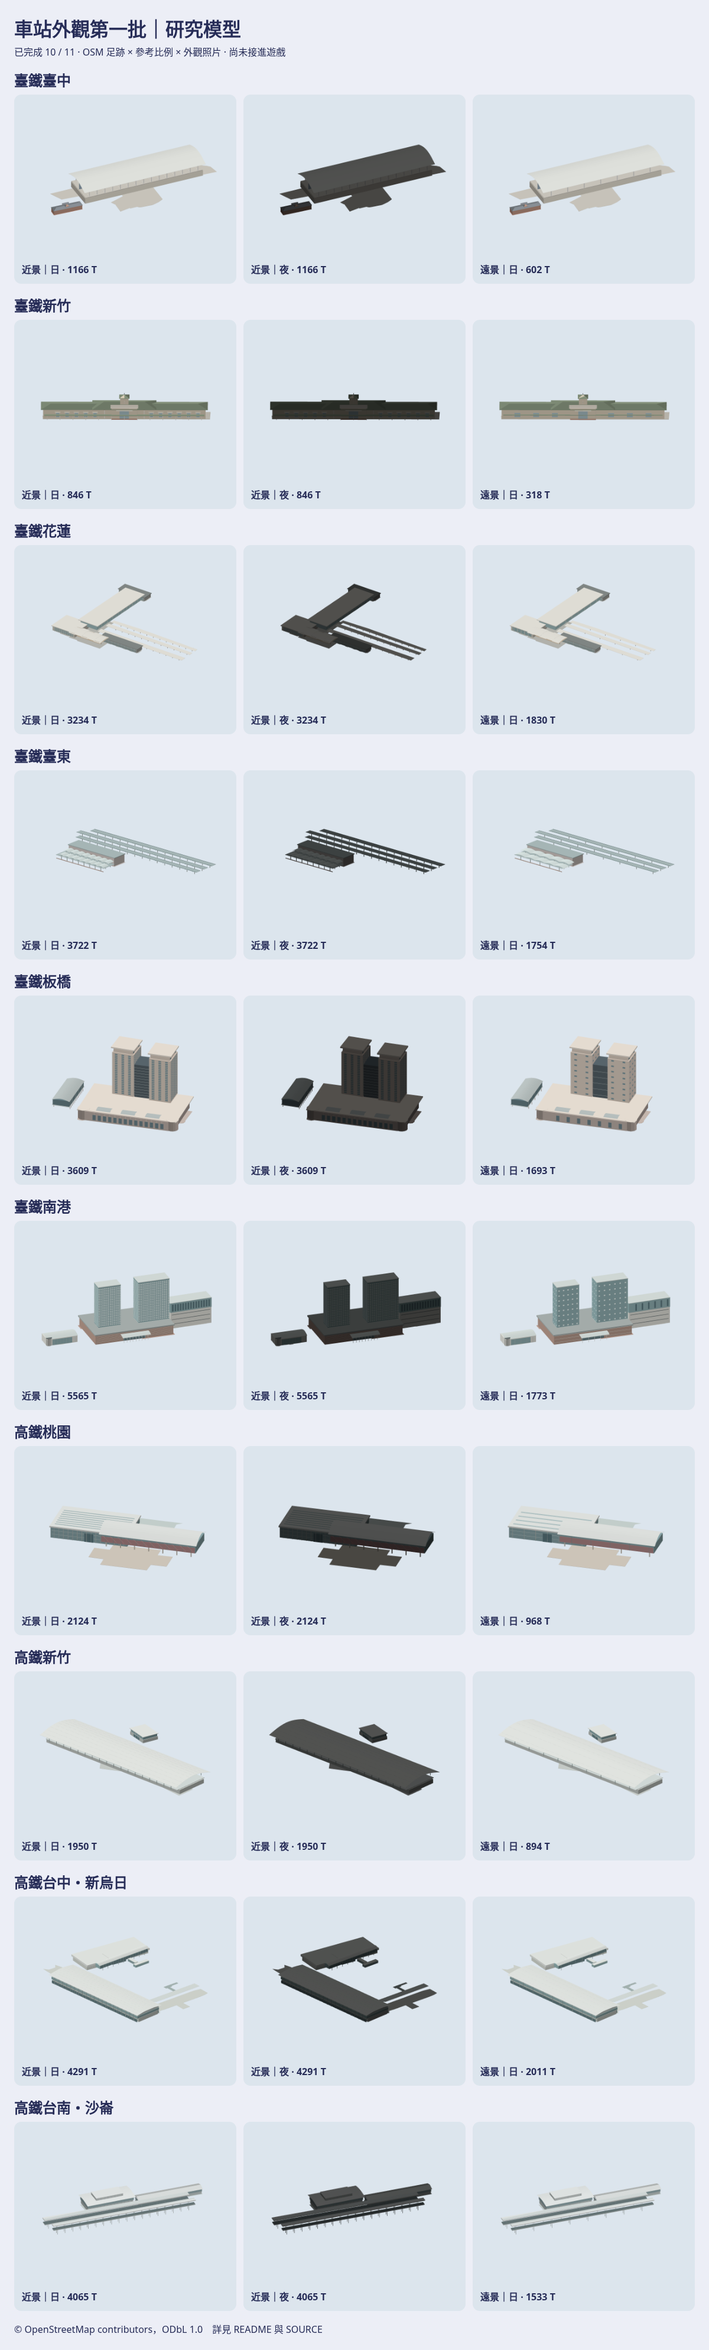
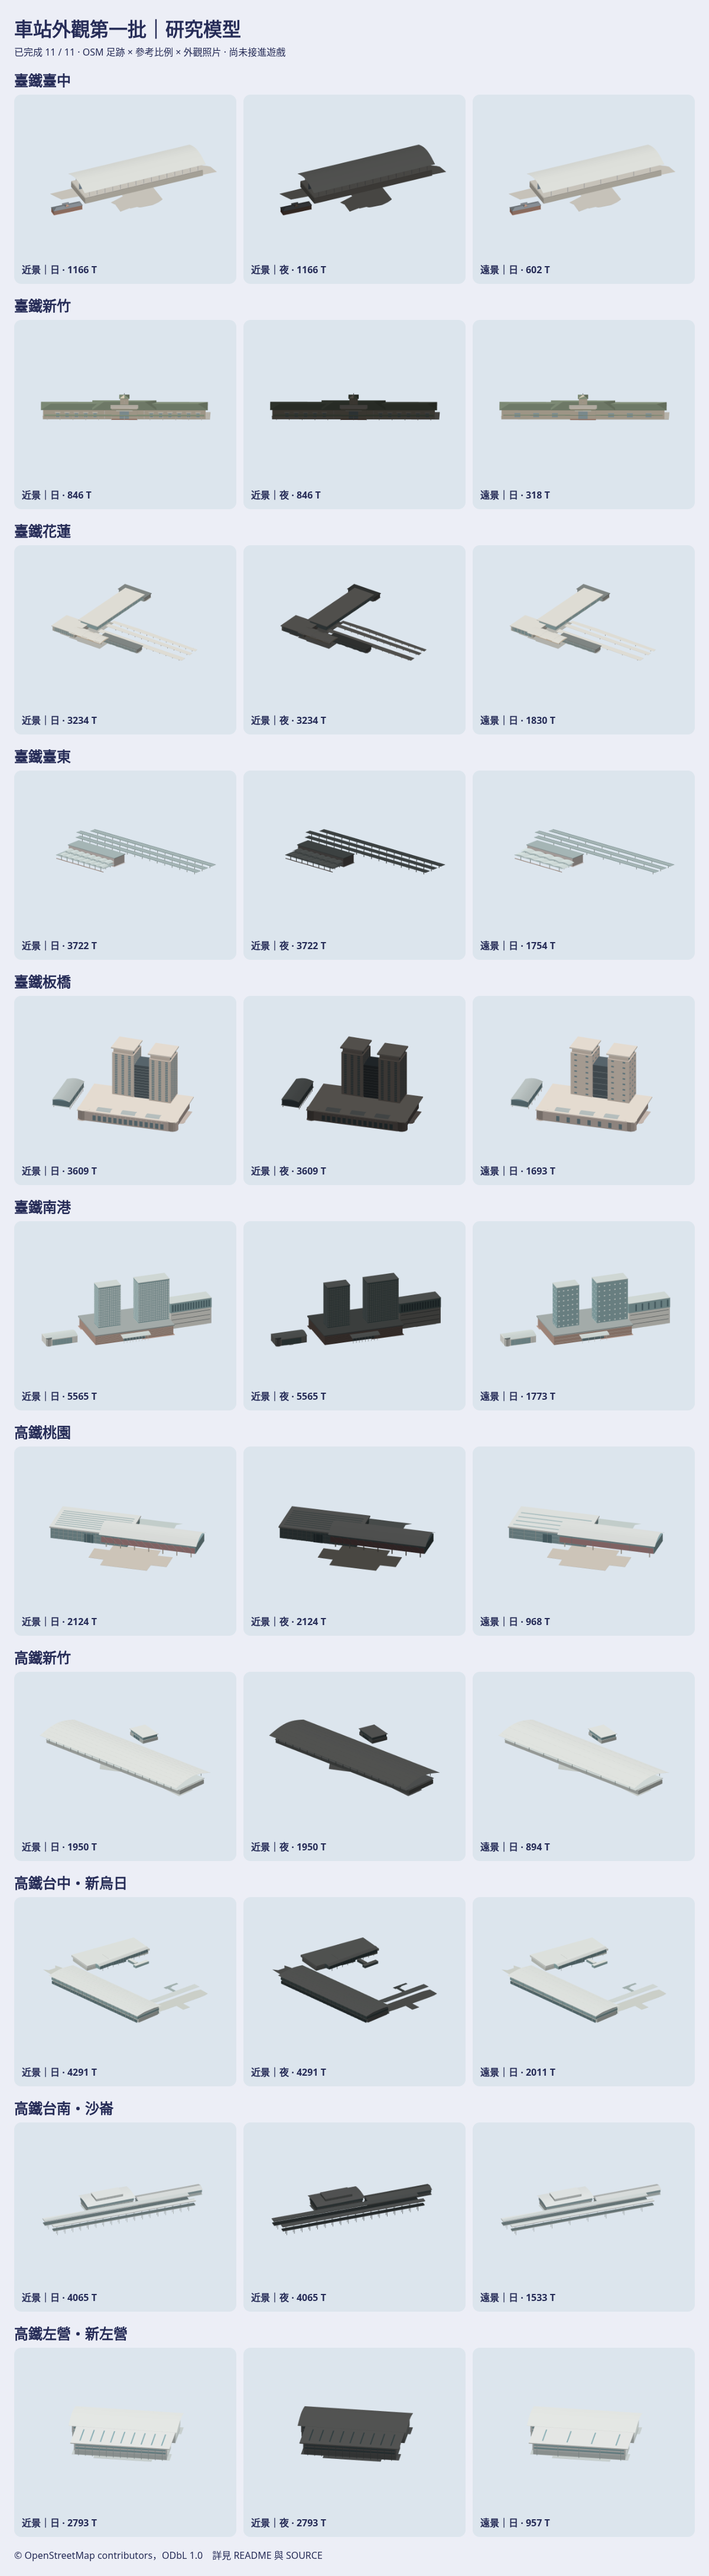
Study HSR Zuoying and TRA Xinzuoying exteriors
Complete the first batch with two OSM-grounded station footprints,
separate near/far exterior recipes, tests, and an eleven-station overview.
Keep the research models outside the operational station catalog.

Agent: Codex

diff --git a/Sources/GamePresentation/Map3DStationExteriorBatch1.swift b/Sources/GamePresentation/Map3DStationExteriorBatch1.swift
@@ -3,7 +3,7 @@ import Foundation
 /// Isolated exterior study. No station catalog or live-map lookup calls this type.
 public enum Map3DStationExteriorBatch1 {
     public enum LevelOfDetail: Sendable { case near, far }
-    public enum Station: String, CaseIterable, Sendable { case taichungTRA = "tra-taichung", hsinchuTRA = "tra-hsinchu", hualienTRA = "tra-hualien", taitungTRA = "tra-taitung", banqiaoTRA = "tra-banqiao", nangangTRA = "tra-nangang", taoyuanHSR = "hsr-taoyuan", hsinchuHSR = "hsr-hsinchu", taichungHSR = "hsr-taichung", tainanHSR = "hsr-tainan" }
+    public enum Station: String, CaseIterable, Sendable { case taichungTRA = "tra-taichung", hsinchuTRA = "tra-hsinchu", hualienTRA = "tra-hualien", taitungTRA = "tra-taitung", banqiaoTRA = "tra-banqiao", nangangTRA = "tra-nangang", taoyuanHSR = "hsr-taoyuan", hsinchuHSR = "hsr-hsinchu", taichungHSR = "hsr-taichung", tainanHSR = "hsr-tainan", zuoyingHSR = "hsr-zuoying" }
 
     public static func model(for station: Station, detail: LevelOfDetail) -> Map3DModelPack.Model {
         var builder = StationKitBuilder()
@@ -18,6 +18,7 @@ public enum Map3DStationExteriorBatch1 {
         case .hsinchuHSR: builder.hsinchuHSRExteriorStudy(detail: detail)
         case .taichungHSR: builder.taichungHSRExteriorStudy(detail: detail)
         case .tainanHSR: builder.tainanHSRExteriorStudy(detail: detail)
+        case .zuoyingHSR: builder.zuoyingHSRExteriorStudy(detail: detail)
         }
         return .flat(named: "station-exterior-study-\(station.rawValue)-\(detail == .near ? "near" : "far")", from: builder.mesh)
     }
@@ -605,6 +606,24 @@ public enum Map3DStationExteriorBatch1 {
         (50.607, -181.754), (62.129, -176.539),
         (0.702, -40.914), (-6.488, -44.172), (-23.755, -51.989),
         (-5.935, -91.341), (7.020, -85.470),
+    ]
+
+    // OSM ways 111991261 and 303296097, Taiwan PBF 2026-11-06.
+    // Metres east/north from 120.3074864 E, 22.68726485 N.
+    // © OpenStreetMap contributors, ODbL 1.0.
+    static let zuoyingHSRFootprint: [(Float, Float)] = [
+        (78.739, 24.146), (90.065, 34.498), (108.983, 13.783),
+        (43.960, -45.595), (-28.089, -111.390), (-30.603, -108.665),
+        (-45.920, -91.875), (-32.480, -79.599), (-67.351, -41.415),
+        (45.161, 60.918),
+    ]
+    static let xinzuoyingFootprint: [(Float, Float)] = [
+        (15.183, 111.390), (17.748, 108.565), (22.119, 103.762),
+        (32.275, 92.598), (26.048, 86.938), (47.643, 63.187),
+        (45.161, 60.918), (-67.351, -41.415), (-70.408, -44.194),
+        (-95.399, -16.718), (-102.160, -9.279), (-105.618, -5.476),
+        (-108.983, -1.785), (-80.236, 24.368), (-86.741, 31.240),
+        (-13.070, 98.191), (-6.709, 91.475),
     ]
 
 }
@@ -1550,5 +1569,102 @@ private extension StationKitBuilder {
         shalun.box(0, 6.62, -12.3, 142, 0.2, 0.44, darkGlass)
         add(.flat(named: "shalun-station", from: shalun.mesh),
             at: Map3DPoint(19.2, 0, -114.3), angle: -65.6331 * .pi / 180)
+    }
+
+    mutating func zuoyingHSRExteriorStudy(detail: Map3DStationExteriorBatch1.LevelOfDetail) {
+        let roof = Map3DColor.rgb(0xEEF1EE)
+        let fascia = Map3DColor.rgb(0xDEE5E3)
+        let wall = Map3DColor.rgb(0xD0D8D7)
+        let steel = Map3DColor.rgb(0xB0C0C1)
+        let glass = Map3DColor.rgb(0x91B7BD)
+        let darkGlass = Map3DColor.rgb(0x648991)
+        let truss = Map3DColor.rgb(0x667B80)
+
+        footprint(Map3DStationExteriorBatch1.zuoyingHSRFootprint, color: wall)
+        footprint(Map3DStationExteriorBatch1.xinzuoyingFootprint, color: wall)
+
+        // Both OSM ways carry eight levels but no height or roof shape.
+        // The HSR roof's 32 m crown is reference-display scale. Photos
+        // supply its deep white eave, exposed steel and teal window bands.
+        var hsr = StationKitBuilder()
+        hsr.box(0, 0.32, 0, 177, 52, 8.7, wall)
+        hsr.box(0, 9.02, 0, 178, 54, 13.7, fascia)
+        for z: Float in [-27.1, 27.1] {
+            hsr.box(0, 10.3, z, 172, 0.24, 2.9, glass)
+            hsr.box(0, 16.2, z, 172, 0.24, 2.8, glass)
+            hsr.box(0, 22.8, z, 172, 0.35, 0.7, truss)
+        }
+        hsr.box(0, 0.32, -27.4, 27, 0.22, 8.7, darkGlass)
+        hsr.canopy(0, 26.5, 0, length: 186, width: 80,
+                   rise: 5.5, color: roof)
+        for x in stride(from: Float(-82), through: 82,
+                        by: detail == .near ? 13.6 : 41) {
+            for z: Float in [-29.5, 29.5] {
+                hsr.box(x, 0.32, z, 0.85, 0.85, 24.4, steel)
+                if detail == .near {
+                    hsr.beam(Map3DPoint(x, 23.8, z),
+                             Map3DPoint(x, 26.5, z.sign == .minus ? -39 : 39),
+                             0.28, truss)
+                }
+            }
+        }
+        if detail == .near {
+            for x in stride(from: Float(-80), through: 80, by: 16) {
+                for side: Float in [-1, 1] {
+                    hsr.beam(Map3DPoint(x, 23.4, side * 27),
+                             Map3DPoint(x + 3.5, 26.5, side * 37),
+                             0.22, steel)
+                }
+            }
+        }
+        for x in stride(from: Float(-80), through: 80,
+                        by: detail == .near ? 10 : 32) {
+            for z: Float in [-27.35, 27.35] {
+                hsr.box(x, 10.3, z, 0.22, 0.14, 8.7, steel)
+            }
+        }
+        add(.flat(named: "zuoying-hsr-hall", from: hsr.mesh),
+            at: Map3DPoint(14.1, 0, -19.96), angle: 42.4015 * .pi / 180)
+
+        // New Zuoying's long white slab is lower and flatter. Skylight
+        // strips and the front colonnade are photo-based approximations.
+        var tra = StationKitBuilder()
+        tra.box(0, 0.32, 0, 158, 47, 8.2, wall)
+        tra.box(0, 8.52, 0, 160, 50, 13.5, fascia)
+        for z: Float in [-25.15, 25.15] {
+            tra.box(0, 11.5, z, 155, 0.24, 2.8, glass)
+            tra.box(0, 17.5, z, 155, 0.24, 2.2, glass)
+            tra.box(0, 22.02, z, 156, 0.28, 0.55, truss)
+        }
+        tra.box(0, 0.32, -25.4, 26, 0.22, 8.2, darkGlass)
+        tra.box(0, 24.5, 0, 170, 68, 1.5, roof)
+        if detail == .near {
+            for x in stride(from: Float(-70), through: 70, by: 17.5) {
+                tra.box(x, 26.01, 0, 2.1, 46, 0.10, glass)
+            }
+        } else {
+            for x in stride(from: Float(-63), through: 63, by: 42) {
+                tra.box(x, 26.01, 0, 2.1, 46, 0.10, glass)
+            }
+        }
+        for x in stride(from: Float(-72), through: 72,
+                        by: detail == .near ? 12 : 36) {
+            for z: Float in [-27, 27] {
+                tra.box(x, 0.32, z, 0.82, 0.82, 23.7, steel)
+                if detail == .near {
+                    tra.beam(Map3DPoint(x, 22.2, z),
+                             Map3DPoint(x, 24.5, z.sign == .minus ? -33 : 33),
+                             0.22, truss)
+                }
+            }
+        }
+        for x in stride(from: Float(-72), through: 72,
+                        by: detail == .near ? 10 : 30) {
+            for z: Float in [-25.4, 25.4] {
+                tra.box(x, 11.5, z, 0.24, 0.14, 8.2, steel)
+            }
+        }
+        add(.flat(named: "xinzuoying-station", from: tra.mesh),
+            at: Map3DPoint(-30.7, 0, 37.04), angle: 42.2875 * .pi / 180)
     }
 }

diff --git a/Tests/GamePresentationTests/Map3DStationExteriorBatch1Tests.swift b/Tests/GamePresentationTests/Map3DStationExteriorBatch1Tests.swift
@@ -2,6 +2,40 @@ import XCTest
 @testable import GamePresentation
 
 final class Map3DStationExteriorBatch1Tests: XCTestCase {
+    func testZuoyingHSRStudyKeepsBothOSMWaysAndTwoRoofHeights() {
+        let near = Map3DStationExteriorBatch1.model(for: .zuoyingHSR, detail: .near)
+        let far = Map3DStationExteriorBatch1.model(for: .zuoyingHSR, detail: .far)
+        XCTAssertGreaterThan(near.triangleCount, far.triangleCount)
+        XCTAssertLessThanOrEqual(near.triangleCount, 6_000)
+        XCTAssertLessThanOrEqual(far.triangleCount, 2_500)
+        XCTAssertNil(Map3DStationKit.model(id: near.name))
+        XCTAssertNil(Map3DStationKit.model(id: far.name))
+        let outlines = [Map3DStationExteriorBatch1.zuoyingHSRFootprint,
+                        Map3DStationExteriorBatch1.xinzuoyingFootprint]
+        XCTAssertEqual(outlines.map(\.count), [10, 17])
+        for outline in outlines {
+            for (east, north) in outline {
+                XCTAssertTrue(near.vertices.contains {
+                    abs($0.x - east) < 0.002 && abs($0.y + north) < 0.002
+                        && abs($0.z - 0.32) < 0.002
+                })
+            }
+        }
+        XCTAssertEqual(near.maximum.z, 32, accuracy: 0.1) // estimated HSR crown
+        XCTAssertTrue(near.vertices.contains { abs($0.z - 26) < 0.01 }) // TRA roof
+        let colours = Set(near.vertices.map(\.color))
+        let ordered = [UInt32(0xEEF1EE), 0xDEE5E3, 0xD0D8D7,
+                       0xB0C0C1, 0x91B7BD, 0x648991, 0x667B80].map(Map3DColor.rgb)
+        func luminance(_ colour: UInt32) -> Float {
+            Float(colour & 255) * 0.2126 + Float((colour >> 8) & 255) * 0.7152
+                + Float((colour >> 16) & 255) * 0.0722
+        }
+        for (lighter, darker) in zip(ordered, ordered.dropFirst()) {
+            XCTAssertTrue(colours.contains(lighter))
+            XCTAssertGreaterThan(luminance(lighter), luminance(darker))
+        }
+    }
+
     func testTainanHSRStudyKeepsFourOSMOutlinesAndTwoDetails() {
         let near = Map3DStationExteriorBatch1.model(for: .tainanHSR, detail: .near)
         let far = Map3DStationExteriorBatch1.model(for: .tainanHSR, detail: .far)

diff --git a/docs/art/station-exteriors-batch1/README.md b/docs/art/station-exteriors-batch1/README.md
@@ -1,4 +1,4 @@
-# 車站外觀第一批 studies：第 10 次交付
+# 車站外觀第一批 studies：第 11 次交付
 
 這是獨立研究配方，沒有接到 `Map3DStationKit` 的站點選型、地圖或存檔。公開庫只有配方、測試與一張總覽；逐方向原生模型、GLB、日夜圖與離線檢視頁在私有素材庫的同名資料夾。
 
@@ -126,13 +126,20 @@
 
 照片只看 Wikimedia Commons [高鐵台南站正面與寬屋頂](https://commons.wikimedia.org/wiki/File:HSR_Tainan_Station.JPG)、[沙崙站長斜屋頂與窗帶](https://commons.wikimedia.org/wiki/File:Shalun_Station_Exterior.jpg)、[兩站與月台相對位置](https://commons.wikimedia.org/wiki/File:THSR_Tainan_Station_and_TRA_Shalun_Station_2010-05.jpg)；[高鐵台南官方站頁](https://www.thsrc.com.tw/ArticleContent/9c5ac6ca-ec89-48f8-aab0-41b738cb1814) 只核對站區配置。照片不打包、不作貼圖。以現有 station kit 盒體、封閉曲棚、斜屋頂、梁柱與調淡的白灰、青灰色階重建；淺屋頂比立面亮、玻璃與棚下更暗。沙崙斜屋頂不是中式屋頂。近景 **4,065 三角**、遠景 **1,533 三角**；作者尚未驗收外觀。
 
-## 尚缺的一站
+## 已完成：高鐵左營（含臺鐵新左營）
 
-| 站 | 來源與目前量到的部件足跡（m） | 還缺的核對 |
+| 部件 | OSM 足跡最小旋轉矩形 | 高度、屋頂與外觀判斷 |
 | --- | --- | --- |
-| 高鐵左營 | 參考庫 `stations/zuoying-complex-v1/metadata.json` 的 OSM 輪廓：高鐵左營 186 × 78（111991261）；臺鐵新左營 168 × 67（303296097） | 大頂與真實高度。 |
+| 高鐵左營站 | [way 111991261](https://www.openstreetmap.org/way/111991261)，**185.853 × 78.235 m**，10 個不重複頂點；`building=train_station`、`building:levels=8`、`layer=1` | OSM 無 `height`、`roof:shape` 或 `roof:height`。約 **32 m** 大白棚頂、深出簷、外露白色桁架、白柱與青灰窗帶依外觀照片及參考展示比例推估。 |
+| 臺鐵新左營站 | [way 303296097](https://www.openstreetmap.org/way/303296097)，**168.193 × 66.870 m**，17 個不重複頂點；同樣 `building=train_station`、`building:levels=8`、`layer=1` | OSM 無實際高度或屋頂標籤。照片顯示較平的長白屋頂、細長採光條、懸挑上層與前側柱列；約 **26 m** 屋頂、柱距及窗帶節奏均為推估。 |
 
-上表尺寸是參考庫依 OSM 輪廓量出的最小矩形，括號內為 OSM way 識別；`displayHeightM` 是展示推估，**尚未**作為真實高度。完成前須從整份 Taiwan PBF 重新核對 way、`building:part`、高度與屋頂標籤，再看照片選各部件，並另做近遠兩版。資料出處同為 © OpenStreetMap contributors，ODbL 1.0。
+兩個 way 的全部非閉合頂點從 2026-11-06 下載的 osmtoday `asia/taiwan.pbf` 以 pyosmium 擷取，轉為局部公尺座標；原點 120.3074864°E、22.68726485°N。兩件的長寬、方向與相對位置同參考庫 `Railway/taiwan-rail-reference-clean/source/rail-3d/assets/stations/zuoying-complex-v1/metadata.json` 核對；`blender-buildings-v1/zuoying-complex-v1/model.json` 只量體量比例，不使用原網格。OSM 輪廓 © OpenStreetMap contributors，ODbL 1.0。八層標籤不能直接換算為真實建物高度。
+
+照片只看 Wikimedia Commons [高鐵左營站的長白大棚、窗帶與柱廊](https://commons.wikimedia.org/wiki/File:HSR_Zuoying_Station.JPG)、[兩站共構的遠景與新左營屋頂採光條](https://commons.wikimedia.org/wiki/File:THSR_Zuoying_Station_and_TRA_New_Zuoying_Station_20080712.jpg)、[新左營外立面與柱廊](https://commons.wikimedia.org/wiki/File:TRA_New_Zuoying_Station_in_Morning_20151024.jpg)、[新左營正面窗帶](https://commons.wikimedia.org/wiki/File:TRA_New_Zuoying_Station_20081130.jpg)；[高鐵左營官方站頁](https://www.thsrc.com.tw/ArticleContent/f2519629-5973-4d08-913b-479cce78a356) 只核對站區配置。照片不打包、不作貼圖。高鐵大棚取照片的寬出簷與露出桁架，新左營較平的屋頂取參考比例及照片中的採光條；最後用現有 station kit 盒體、曲棚、梁柱及淡白、青灰色階組合，保留屋頂、牆、玻璃、桁架的明暗順序。近景 **2,793 三角**、遠景 **957 三角**；作者尚未驗收外觀。
+
+## 第一批進度
+
+11 站研究模型及近遠景、來源表、總覽已完成。這批只供作者外觀審看；尚未接進遊戲，實際站體高度、月台高程及細部仍需進一步資料核對。
 
 ## 檢查與邊界
 
